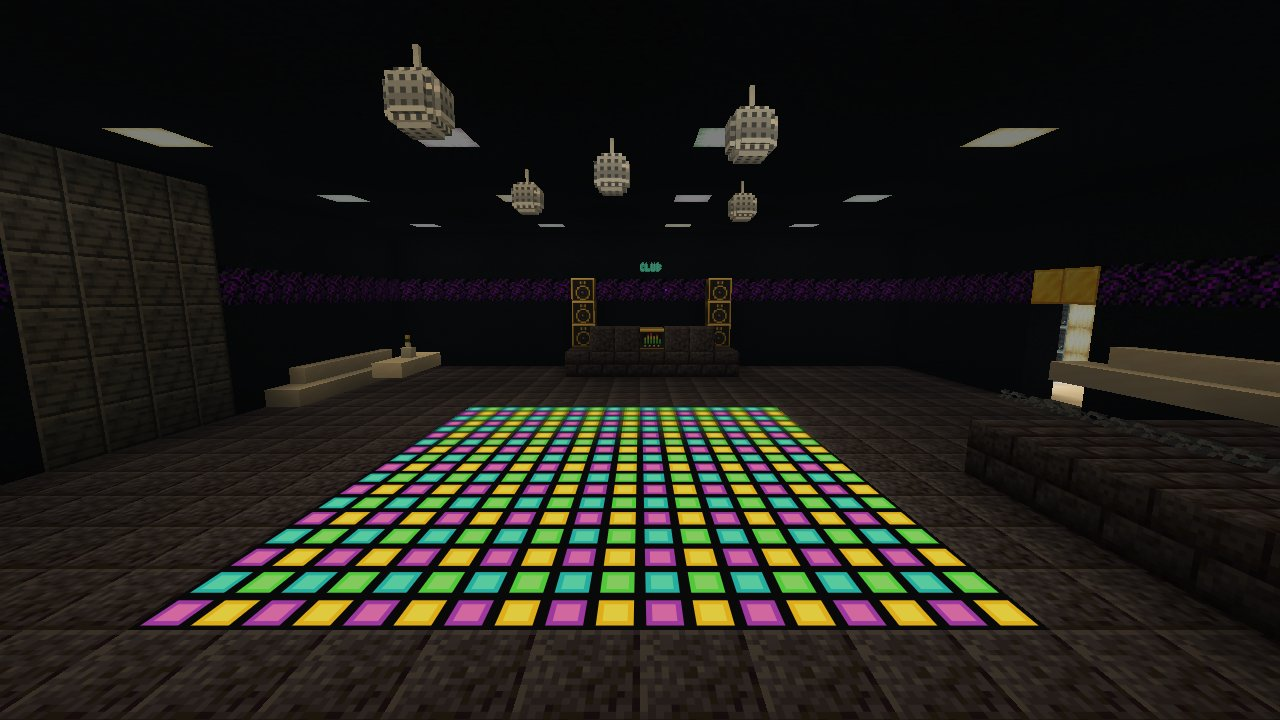
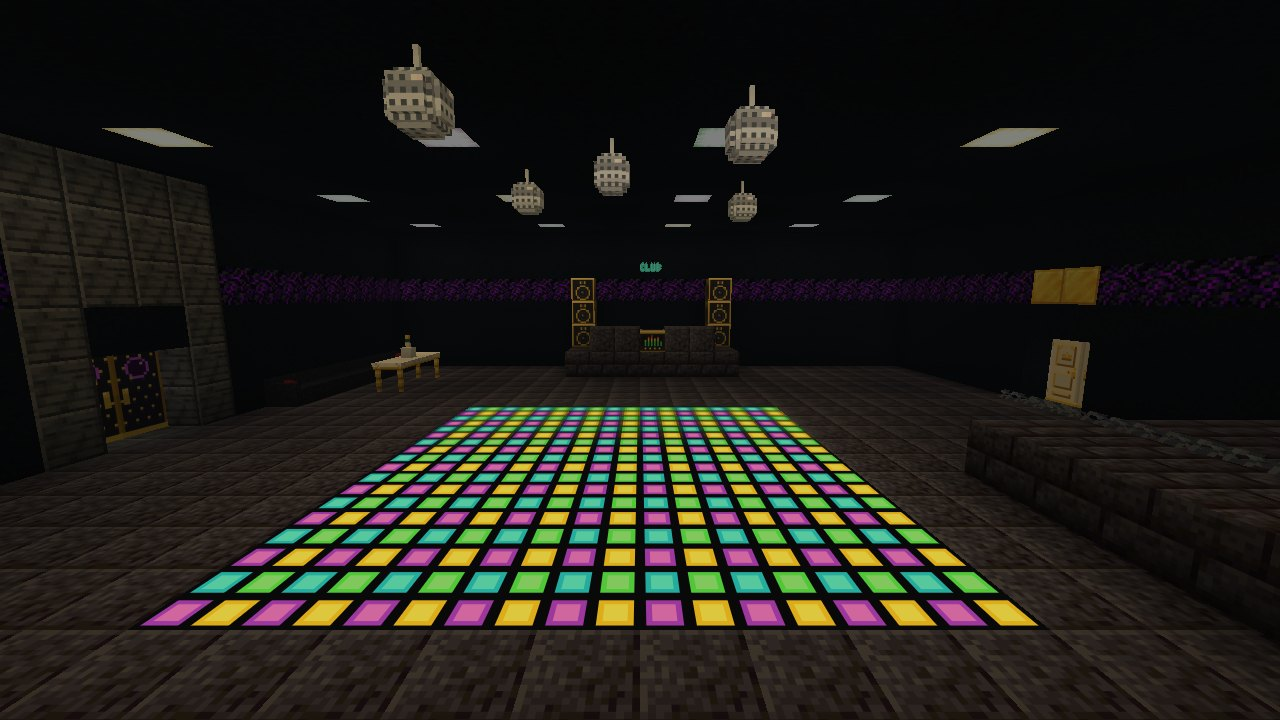
README: neue Fotos für 0.2.3, Drehbücher für Fotos, Kurzprüfung und Trailer
Neue Bilder: Haustür, Garten-Lounge, Konzertflügel zum Spielen, Geheimclub, magischer Eingang, Banktür,
Goldspeicher; Ballsaal, Kino, Whirlpool, Waffenkammer, Drehteller und Villa von vorn neu aufgenommen.
Szenarien fotos3.txt und kurz023.txt, Drehbuch-Erzeuger trailer_szenario.py.

Claude-Session: https://claude.ai/code/session_01Y2sSJbBbETjTDjiGSSJfSm

Verfasst mit Claude 🤖

diff --git a/README.md b/README.md
@@ -36,7 +36,11 @@ Wassergraben mit Brücke (wird bei Alarm zum Lava-Graben) · zwei Glaskuppel-Bru
 </tr>
 <tr>
 <td><img src="docs/bilder/villa_nacht.jpg" alt="Die Villa bei Nacht"><br><sub><b>Nachts:</b> alles beleuchtet</sub></td>
-<td><img src="docs/bilder/whirlpool.jpg" alt="Whirlpool auf der Dachterrasse"><br><sub><b>Dachterrasse:</b> Whirlpool mit Ausblick</sub></td>
+<td><img src="docs/bilder/whirlpool.jpg" alt="Whirlpool auf der Dachterrasse"><br><sub><b>Dachterrasse:</b> beheizter Whirlpool mit Ausblick – er dampft und friert nie zu</sub></td>
+</tr>
+<tr>
+<td><img src="docs/bilder/haustuer.jpg" alt="Haustür"><br><sub><b>Haustür:</b> weiß-goldene Portaltür, die aufgleitet, wenn du davorstehst</sub></td>
+<td><img src="docs/bilder/garten_lounge.jpg" alt="Garten-Lounge"><br><sub><b>Garten-Lounge</b> im Westgarten mit Sofas, Marmortisch und Kronleuchter</sub></td>
 </tr>
 </table>
 
@@ -51,6 +55,10 @@ Wassergraben mit Brücke (wird bei Alarm zum Lava-Graben) · zwei Glaskuppel-Bru
 <td><img src="docs/bilder/kueche.jpg" alt="Luxusküche"><br><sub><b>Luxusküche</b> mit Kochinsel</sub></td>
 <td><img src="docs/bilder/dachparty.jpg" alt="Dachparty"><br><sub><b>Dachparty</b> mit DJ-Pult und Tanzfläche</sub></td>
 </tr>
+<tr>
+<td><img src="docs/bilder/fluegel_spielen.jpg" alt="Konzertflügel spielen"><br><sub><b>Konzertflügel zum Spielen:</b> drei Oktaven mit Maus oder Tastatur, drei Stücke spielt er selbst</sub></td>
+<td><img src="docs/bilder/geheimclub.jpg" alt="Geheimclub"><br><sub><b>Geheimclub</b> hinter dem Bücherregal: Show-Bühne mit Tänzerinnen an den Stangen</sub></td>
+</tr>
 </table>
 
 ### 🛏 Penthouse: dein privater Schlafbereich
@@ -58,7 +66,7 @@ Wassergraben mit Brücke (wird bei Alarm zum Lava-Graben) · zwei Glaskuppel-Bru
 <table>
 <tr>
 <td width="50%"><img src="docs/bilder/penthouse_bett.jpg" alt="XXL-Kingsize-Bett"><br><sub><b>XXL-Kingsize-Bett</b> aus einem Stück – man kann darin schlafen</sub></td>
-<td width="50%"><img src="docs/bilder/kinosofa.jpg" alt="Kinosofa vor dem Fernseher"><br><sub><b>Kinosofa</b> für zwei vor dem XXL-Fernseher</sub></td>
+<td width="50%"><img src="docs/bilder/kinosofa.jpg" alt="Kino vor dem Fernseher"><br><sub><b>Kino:</b> drei Samtsofas vor dem XXL-Fernseher</sub></td>
 </tr>
 <tr>
 <td><img src="docs/bilder/fernseher.jpg" alt="XXL-Fernseher"><br><sub><b>XXL-Fernseher:</b> YouTube-Link einfügen, Video startet im Browser</sub></td>
@@ -81,15 +89,20 @@ Auf Sofas, Liegen und der Bettbank kann man sich mit **Rechtsklick** hinsetzen, 
 <td><img src="docs/bilder/ueberwachung.jpg" alt="Überwachungsmonitor"><br><sub><b>Überwachung:</b> acht Kameras am Monitor</sub></td>
 <td><img src="docs/bilder/aufzug.jpg" alt="Aufzug"><br><sub><b>Aufzug</b> zu allen Etagen und in den Bunker</sub></td>
 </tr>
+<tr>
+<td><img src="docs/bilder/magischer_eingang.jpg" alt="Magischer Eingang"><br><sub><b>Magischer Eingang:</b> vor dem Regal im Nachtclub schleichen – es funkelt und gleitet auf</sub></td>
+<td><img src="docs/bilder/banktuer.jpg" alt="Banktür"><br><sub><b>Banktür:</b> nur mit Zugangskarte, bleibt offen, bis du sie schließt</sub></td>
+<td><img src="docs/bilder/goldspeicher.jpg" alt="Goldspeicher"><br><sub><b>Goldspeicher:</b> vom Sprungbrett in die Münzen, mit der Leertaste wieder hoch</sub></td>
+</tr>
 </table>
 
 | Bereich | Was drin ist |
 |---|---|
-| 🚨 **Sicherheit** | Sicherheitsstufen 0–3 · Lava-Graben, solange die Anlage an und du zu Hause bist · Laserschranken · Bewegungsmelder · Sirenen · Warnleuchten · Alarm im Chat |
-| 🪪 **Zugang** | Zugangskarte · Kartenleser · Tastenfeld mit eigenem Code · automatische Tore · Rollläden · Schiebetüren · Privattür (nur Bewohner) · Sicherheitstüren für Büro und Kontrollraum (nur mit Zugangskarte) |
-| 🛗 **Im Haus** | Aufzug zu allen Etagen und in den Bunker · Überwachungsraum mit Kameras · Geheimgang hinter dem Bücherregal · Panikraum · Fluchttunnel |
+| 🚨 **Sicherheit** | Sicherheitsstufen 0–3 · Lava-Graben, solange die Anlage an und du auf dem Grundstück bist (im Lockdown immer) · Laserschranken · Bewegungsmelder · Sirenen · Warnleuchten · Alarm im Chat |
+| 🪪 **Zugang** | Zugangskarte · Kartenleser · Tastenfeld mit eigenem Code · automatische Tore · Portaltür als Haustür · Rollläden · Schiebetüren · Privattür (nur Bewohner) · Sicherheitstüren für Büro und Kontrollraum und Banktür im Bunker (nur mit Zugangskarte, bleiben offen, bis du sie schließt) |
+| 🛗 **Im Haus** | Aufzug zu allen Etagen und in den Bunker · Überwachungsraum mit Kameras · Geheimgang hinter dem Bücherregal · magischer Eingang zum Geheimclub (schleichen) · Panikraum · Fluchttunnel |
 | 💎 **Tresor** | Schmuck-Tresor mit Fallen und versteckten Entschärfknöpfen |
-| 🛁 **Komfort** | Poolabdeckung · Wasserrutsche mit Schub · Whirlpool · Badewanne zum Reinsetzen · Toilette mit Spülung · Kamin · Garagentor |
+| 🛁 **Komfort** | Konzertflügel zum Spielen · Poolabdeckung · Wasserrutsche mit Schub · beheizter Whirlpool · Badewanne zum Reinsetzen · Toilette mit Spülung · Kamin · Garagentor |
 
 Alles funktioniert für jeden Spieler – auch auf einem Server mit Freunden.
 
